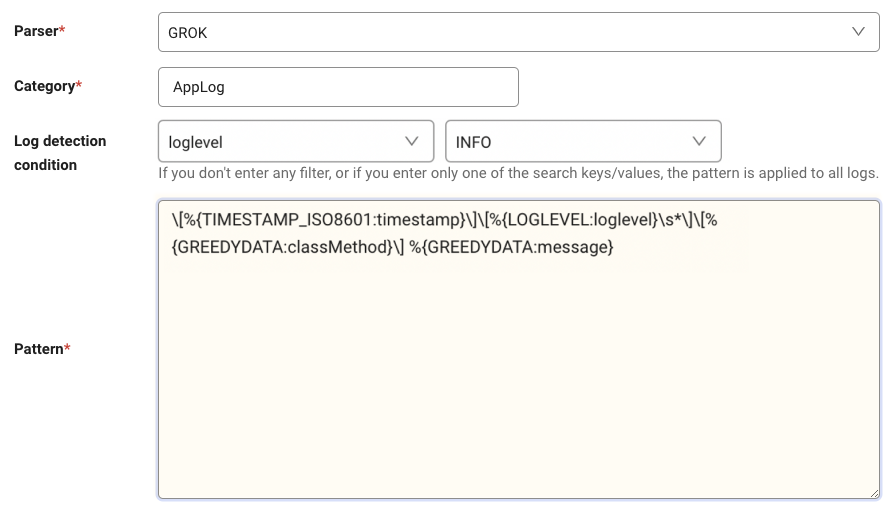
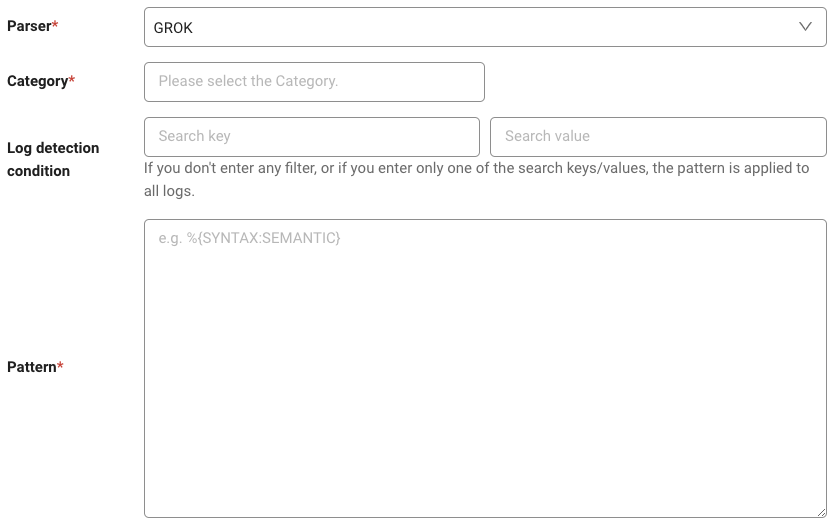
로그 파서 가이드 신규 작성 및 일부 파서 안내 이미지 수정(설정하기 문서 내 이미지 일부 교차 사용)

diff --git a/sidebars.js b/sidebars.js
@@ -5248,6 +5248,11 @@ const sidebars = {
           id: 'log/log-setting',
         },
         {
+          type: 'doc',
+          label: '로그 파싱하기',
+          id: 'log/log-parser',
+        },
+        {
           type: 'category',
           label: '주요 메뉴 알아보기',
           collapsible: true,
